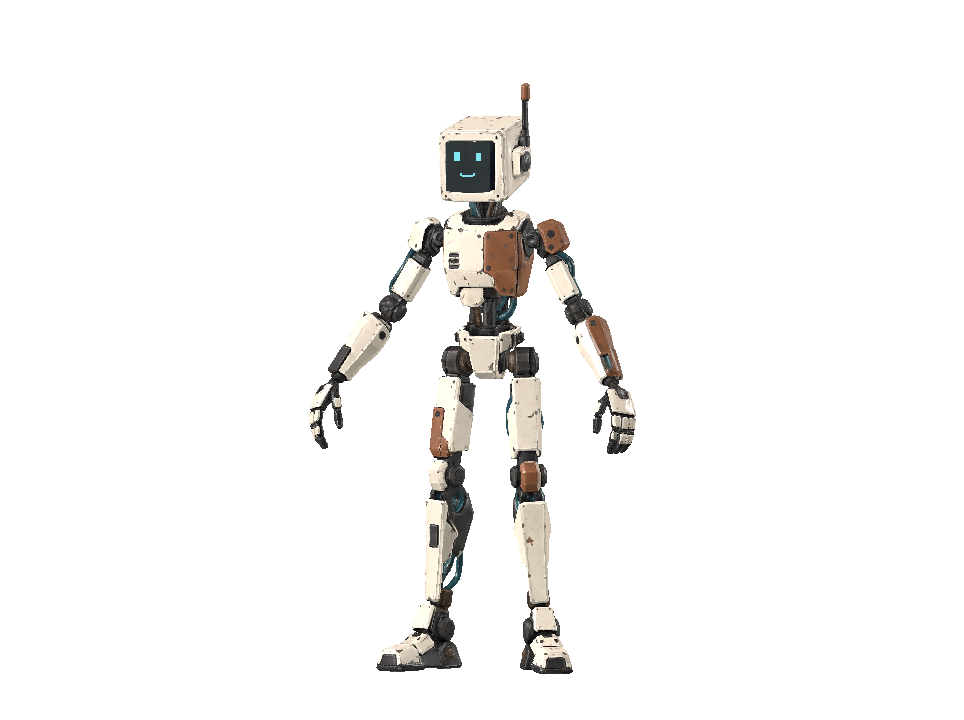
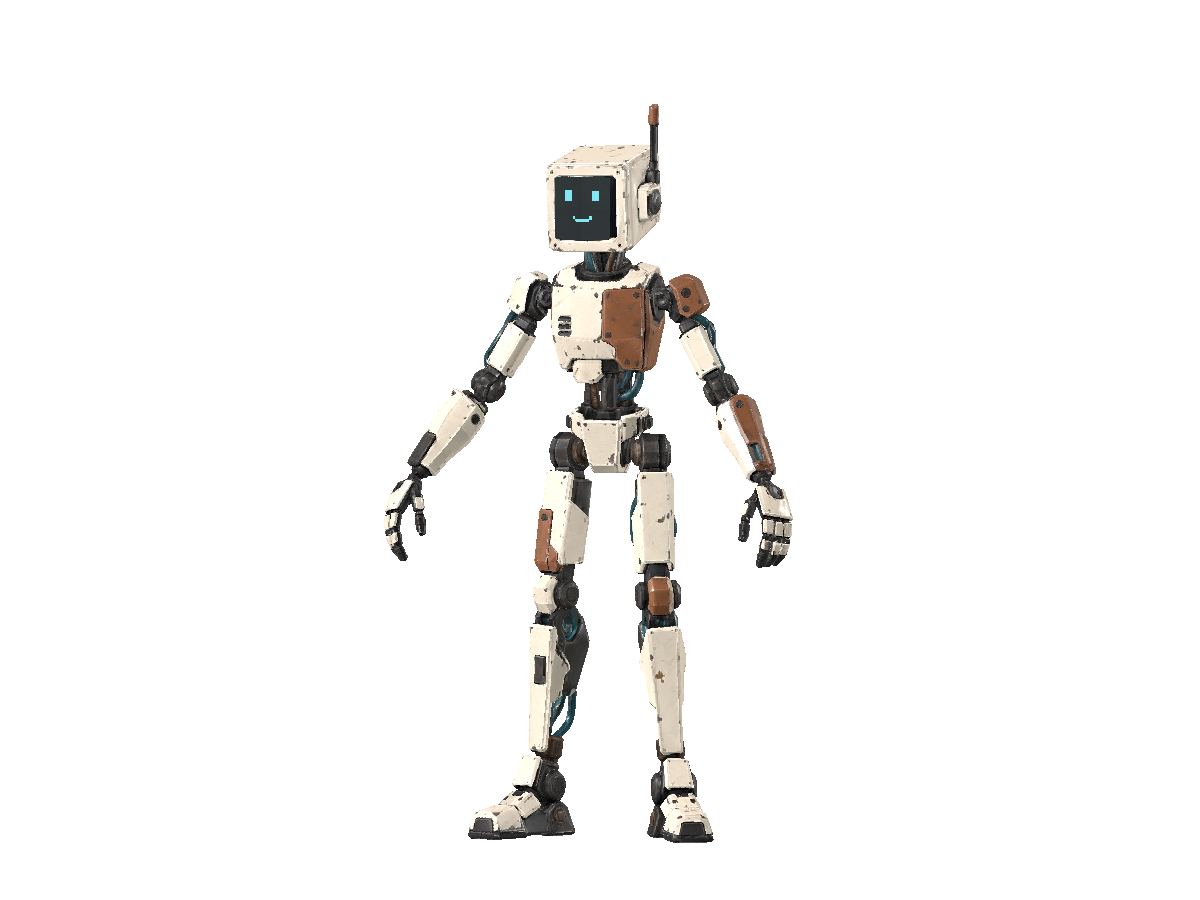
Refresh dependent Latch model library and pose evidence

diff --git a/docs/evidence/latch-calm-pose-20261005.md b/docs/evidence/latch-calm-pose-20261005.md
@@ -1,6 +1,6 @@
 # Latch calm-pose local candidate
 
-Status: corrected CPU candidate, October 5, 2026. First same-camera fixture is retained with a rejected release boundary and incomplete child-exit receipt. Corrected rendering and ordinary played acceptance remain open. This is separate from the frozen hand and named-body integration batch.
+Status: corrected local source-pose candidate, October 5, 2026. Same-camera fixture review passes; full client and ordinary played acceptance remain open. First rejected boundary and incomplete launcher receipt remain retained. This is separate from the frozen hand and named-body integration batch.
 
 Base is main `0b03dc2c0a6b6da20262a02d26f9c7579e098e11`. The [plan](../plans/latch-calm-pose-20261005.md) precedes code. The independent private read-only audit reproduces the actual pawn/view transform chain and records 22 actual weighted source samples. Its inspected M07 image and current tracked GLB, view, pawn and old source are byte-identical to image client `94a270f2e406944ced574df2cfe6f0fee12eec16`.
 
@@ -22,4 +22,28 @@ Godot 4.7.2 headless import, touched-script parsing and `test_latch_source`, `te
 
 The first fixture produced 36 source-pose images and its own PASS with clean logs. Actual full-size zero-to-0.01 views show a visible elbow jump, rejected despite exact positive gesture comparisons. Its console launcher and actual renderer both retired, but the wrapper captured a null exit code for the launcher, so that lifecycle receipt remains incomplete and is not claimed as a clean numeric child exit.
 
-The corrected candidate gives `pose_release`, including zero, an explicit ward context that preserves every original weighted release vertex. Ordinary `advance` switches back to relaxed live-following context. Actual zero/0.01/0.5/1 weighted-surface comparisons and bidirectional context switching pass the unchanged owning harness, alongside near-camera and M02 tests. Review corrected full and player-distance old/new idle, armed, following, firing and release at unchanged height, ordinary light and camera before promotion. Current main remains unchanged.
+The corrected candidate gives `pose_release`, including zero, an explicit ward context that preserves every original weighted release vertex. Ordinary `advance` switches back to relaxed live-following context. Actual zero/0.01/0.5/1 weighted-surface comparisons and bidirectional context switching pass the owning harness, alongside near-camera and M02 tests.
+
+## Corrected controlled rendering
+
+The source implementation is frozen at `fad2cae00500c77d16061f9be22df964a5122753`. One direct actual renderer process produced 36 images, 18 old/new pose pairs, then retired with numeric exit 0, clean logs and its own PASS in 3.49 seconds. The wrapper held that exact process and a 60-second wall cap. No console launcher, server, desktop pointer or gameplay was involved. Earlier failed launcher and transition evidence is not relabeled as passing.
+
+Both versions use the same selected source, feet, 1280 by 720 viewport, 75-degree perspective, 3.35 m and 6.71 m cameras, ambient 0.35 plus one warm directional light 1.4, and exact pose parameters. The retained original pose adapter removes only its global class declaration and accepts an ignored final context flag; its original implementation and exact original file remain retained. The independent check verifies all 36 PNG hashes/resolutions and all 18 camera/parameter pairs. All eight ward pairs, including zero and 0.01 at both distances, have pixel-identical old/new PNGs.
+
+Actual full and player-distance inspection finds a calmer free arm with the same lean adult chassis; the retained armed wrist and gesture remain recognizable. This is a source fixture, not a played M07 frame, proof of closed fingers, motion perception, frame rate or final character-art acceptance. Current main remains unchanged.
+
+- [Previous armed idle](../screenshots/latch-calm-pose-20261005/full_idle_armed_old.png) and [candidate armed idle](../screenshots/latch-calm-pose-20261005/full_idle_armed_new.png).
+- [Candidate following phase](../screenshots/latch-calm-pose-20261005/full_following_three_quarters_new.png).
+- [Preserved ward zero](../screenshots/latch-calm-pose-20261005/full_release_zero_new.png) and [preserved ward 0.01](../screenshots/latch-calm-pose-20261005/full_release_001_new.png).
+
+Private `.agents/pose-fixture/second/receipt.json` binds the frozen head, source/table/camera and per-image hashes. Numeric exit, logs and independent pixel-equality proof are retained beside it. These published frames are exact copies of those images; none was retouched or presented as gameplay.
+
+## Required derived-library regeneration
+
+The first unchanged full checker exits 1: all 271 scripts parse and 128 harnesses pass, but the existing model-assets harness rejects stale Latch source/view fingerprints. This failure remains in `.agents/cpu/full-client-first.log` and its failed receipt. The validator and its assertions are unchanged.
+
[1 lines of base64/hex data omitted]
+
+Only the generated Latch entry and the two changed source hashes are refreshed in the existing manifest. The dependent studio image uses the original 1200 by 900 viewport, orthographic 2.2 m camera, original position/aim, ambient and two lights through the existing capture seam. Owned renderer 19560 retires with actual numeric exit 0, clean logs and its own PASS, without a server. Actual preview inspection shows the same adult chassis with lowered free arms. No unrelated library export is regenerated.
+
+Private `.agents/library-before/` preserves old GLB/preview/manifest, real export and preview logs, independent binary/import proof and output hashes. Unchanged `test_model_assets`, `test_latch_source` and `test_latch_near_clip` each pass cleanly with numeric exit 0 after import. A fresh complete client check remains pending on this generated-output checkpoint.
